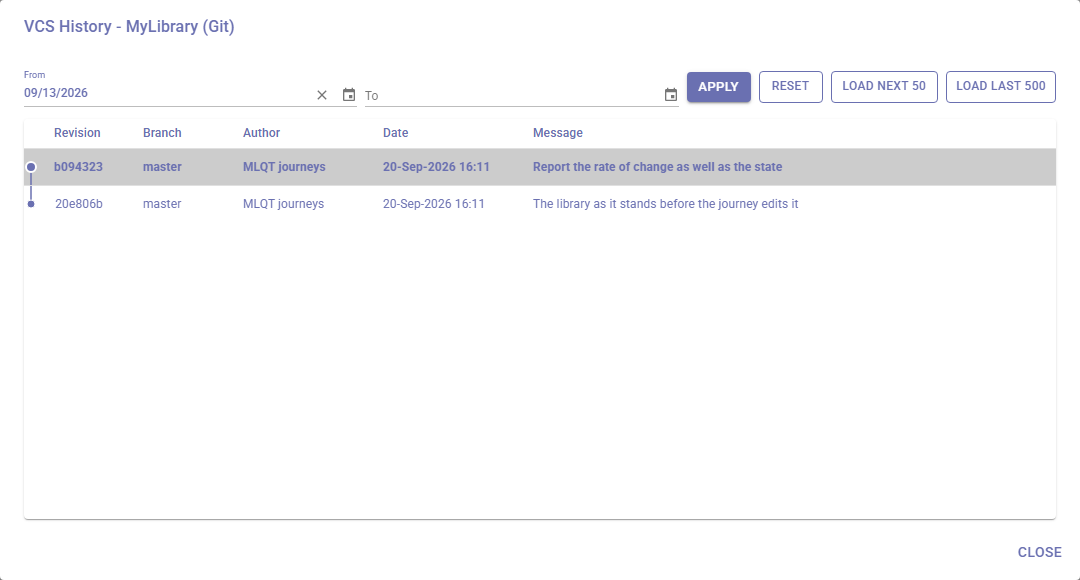
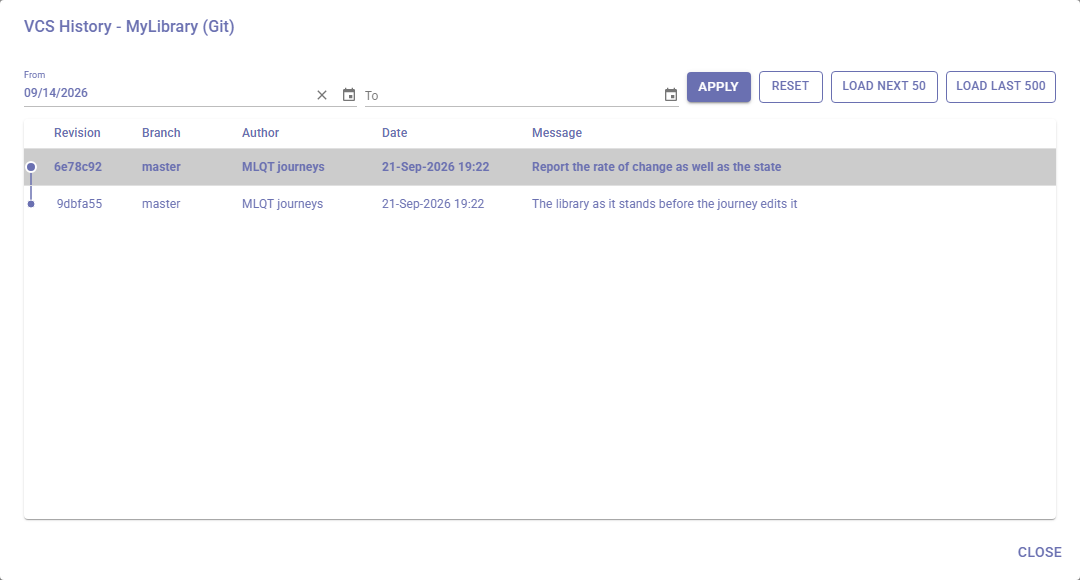
Regenerate the screenshots and re-record the coverage baseline (B191)
Screenshots first. 26 regenerated and one new, from the real components
against the fixture library. Most of the churn is the commit hash, which
differs every run because the fixture builds a fresh repository - that is the
cost of pictures generated from a real one.

Two captions were overtaken by the work and are corrected rather than the
pictures being hand-picked to match them:

  library-browser-2 said "an orange M chip ... and the orange dot". The
  fixture's uncommitted edit is a re-layout of Modified.mo and nothing else -
  same declarations, same equation, same annotation - so since B191 it is the
  cosmetic marker, and the shot now shows a G chip and a dot in that colour.
  The chip counts in the new shot say the same thing: Changed (1),
  Simulation (0), Cosmetic (1). That is the distinction the section is about,
  so it is a better illustration than the one it replaces.

  code-review-1 listed the left panel top to bottom and the filter chips now
  sit between the VCS buttons and the tree.

library-browser-6 is new: the filter chip row, which had no picture at all.
The journey asserts the filter is on screen before shooting it, so a fixture
that stopped leaving an uncommitted edit fails rather than photographing an
empty strip.

Then the baseline. BranchSelector and DiffViewer have come up to the bar and
leave the ledger; every remaining entry kept its reason and most improved. No
TODO placeholders and no new entries, so nothing was added below the bar.
[…]

diff --git a/MLQT.Journeys/DocumentationScreenshots.cs b/MLQT.Journeys/DocumentationScreenshots.cs
@@ -316,9 +316,21 @@ public class DocumentationScreenshots(TestHostFixture host) : IDisposable
         await page.Mouse.MoveAsync(Width / 2, Height - 4);
         await page.WaitForTimeoutAsync(800);
 
-        // The tree itself, with the M chip on the class the fixture leaves uncommitted and the dot
+        // The tree itself, with the chip on the class the fixture leaves uncommitted and the dot
         // that carries it up to the package.
+        //
+        // The fixture's edit is a re-layout of Modified.mo and nothing else - same declarations,
+        // same equation, same annotation - so since B191 this is the **cosmetic** marker rather
+        // than the plain modified one. That is the picture worth having here: it is the
+        // distinction the section is about, and the caption in library-browser.md says so.
         await ShotOfAsync(page.Locator(".mud-treeview").First, "library-browser-2");
+
+        // The filter above the tree. It appears only for a repository with uncommitted changes,
+        // which is what the fixture's one edit is for, and each chip carries the number behind it.
+        var changeFilter = page.Locator(".mlqt-change-filter").First;
+        Assert.True(await changeFilter.CountAsync() > 0,
+            "the change filter is not on screen; does the fixture still leave an uncommitted edit?");
+        await ShotAroundAsync(page, changeFilter, "library-browser-6");
 
         // The whole left panel, which is what a user sees once a repository is in: the repository as
         // an expansion header, its VCS row, and the packages below it.

diff --git a/Documentation/library-browser.md b/Documentation/library-browser.md
@@ -12,7 +12,7 @@ In repository view, libraries are grouped under their parent repository. Each re
 
 This is the default view and is the one you'll use most often, as it provides access to all version control operations.
 
-![Screenshot: The left panel in repository view. The repository is an expansion panel headed by its Git icon and name, with the branch name, the short commit id and the VCS operation buttons beneath it, and the Modelica package tree below that.](Images/code-review-1.png)
+![Screenshot: The left panel in repository view. The repository is an expansion panel headed by its Git icon and name, with the branch name, the short commit id and the VCS operation buttons beneath it, then the row of change-filter chips, and the Modelica package tree below that.](Images/code-review-1.png)
 
 ### Library View
 
@@ -62,7 +62,7 @@ Models whose files have uncommitted changes display a small colored chip next to
 | **N** | Green | **Untracked** — A new file not yet added to version control |
 | **!** | Red | **Conflicted** — A file with merge conflicts that need resolution |
 
-![Screenshot: The tree with VCS status on it - an orange "M" chip beside the modified class, and the orange dot on the package above it that says a change is somewhere inside.](Images/library-browser-2.png)
+![Screenshot: The tree with VCS status on it - a "G" chip beside the changed class, because the change to it is a re-layout and nothing else, and a dot in the same colour on the package above it, saying a cosmetic change is somewhere inside.](Images/library-browser-2.png)
 
 ### What Kind of Change It Is
 
@@ -94,6 +94,8 @@ A class is one or the other, never both. If you changed an equation **and** move
 **It is still the tree.** Selecting a chip prunes it to the classes that match and the packages that contain them, rather than flattening it into a list — so a change keeps the context of where it lives, and two changes in the same package are visibly in the same package. It stays open exactly as far as you had it open, and no further: a filter is a question, not a rearrangement. A class is a leaf there whatever it holds in the full tree, because the children it has are ones the filter did not select.
 
 Click a class to open it, exactly as in the unfiltered tree. Click **All** — or the selected chip again — to go back; the full tree returns expanded as you left it, including anything you opened while the filter was on.
+
+![Screenshot: The row of filter chips above the tree - All, Changed, Simulation and Cosmetic - each of the last three carrying the number of classes behind it in brackets.](Images/library-browser-6.png)
 
 **None of this appears for a repository marked [Reference only](settings-reference.md#reference-only-repositories).** MLQT never formats, checks, commits or writes to one, so there is nothing for a change marker to be about — and because a reference repository is not watched for file changes either, anything shown would only ever be refreshed by loading the project.
 
